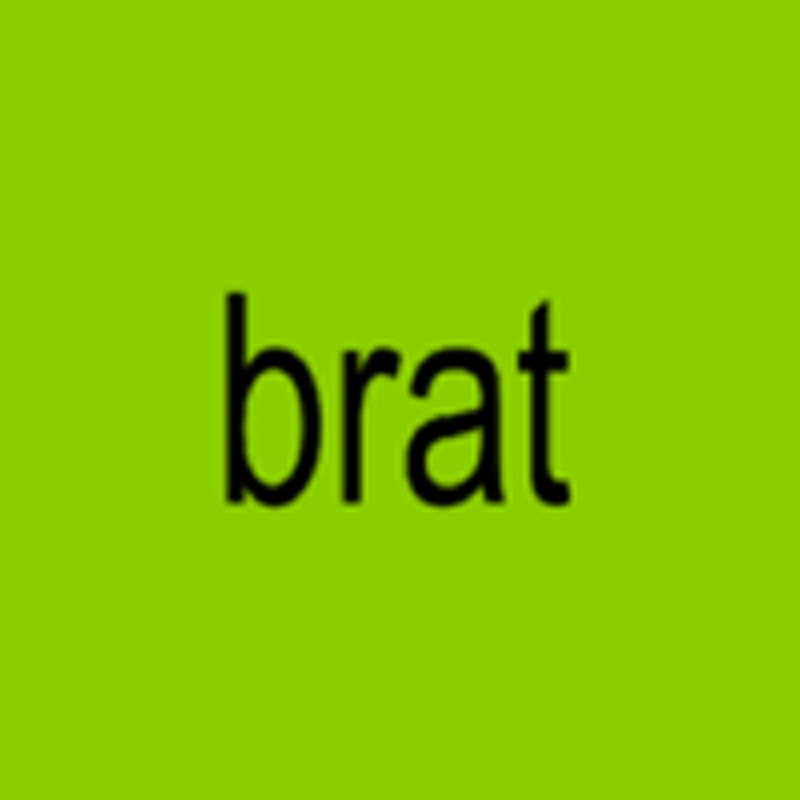
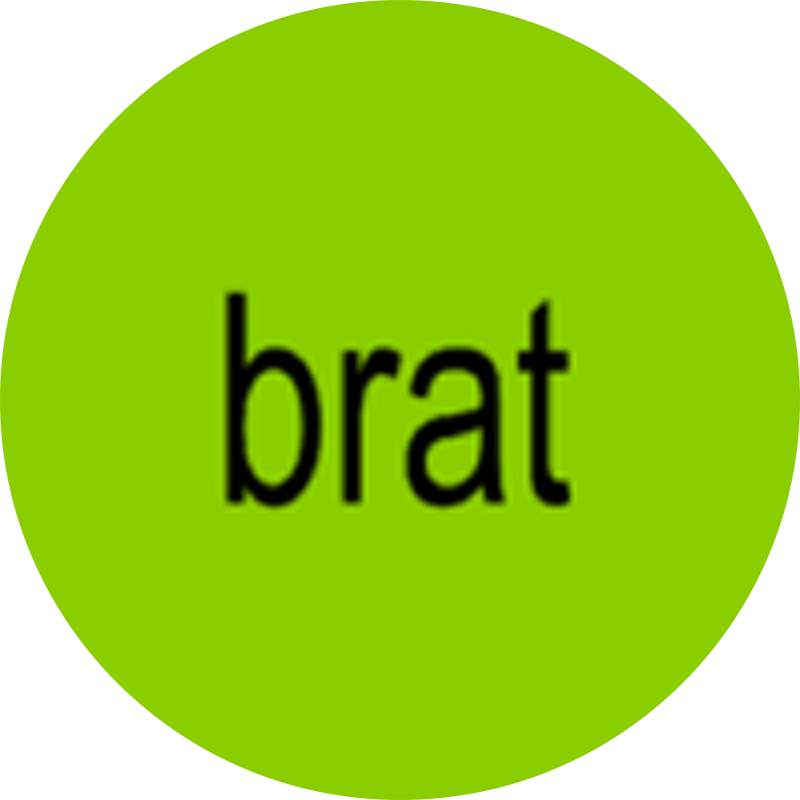
added legend and rounded images

diff --git a/components/GrammyBubbles.tsx b/components/GrammyBubbles.tsx
@@ -1,3 +1,4 @@
+/* eslint-disable @typescript-eslint/no-unused-vars */
 /* eslint-disable react-hooks/exhaustive-deps */
 
 'use client';
@@ -45,13 +46,13 @@ const BubbleChart = ({ category, title, onMouseEnter, onMouseLeave, onMouseMove,
             .data(nodes)
             .enter()
             .append("image")
-            .attr("class", "bubble")
+            .attr("class", "bubble cursor-pointer")
             .attr("href", d => d.src_img.replace("../public", ""))
-            .attr("width", d => Math.max(d.overall_average * (window.innerWidth < 768 ? 6 : 6), 100)) // Ajuste para celular
-            .attr("height", d => Math.max(d.overall_average * (window.innerWidth < 768 ? 6 : 6), 100)) // Ajuste para celular
+            .attr("width", d => Math.max(d.overall_average * (window.innerWidth < 768 ? 6 : 6), 100))
+            .attr("height", d => Math.max(d.overall_average * (window.innerWidth < 768 ? 6 : 6), 100))
             .style("opacity", 0)
             .on("mouseover", (event, d) => {
-                gsap.to(event.currentTarget, { scale: 1, opacity: 0.8, duration: 0.3 });
+                gsap.to(event.currentTarget, { scale: 1, opacity: 1, duration: 0.3 });
                 onMouseEnter(d);
             })
             .on("mouseleave", (event) => {
@@ -61,7 +62,7 @@ const BubbleChart = ({ category, title, onMouseEnter, onMouseLeave, onMouseMove,
             .on("mousemove", (event) => onMouseMove(event))
             .on("click", (event, d) => onClick(d));
 
-        gsap.to(bubbles.nodes(), { opacity: 1, scale: 1, duration: 0.5, stagger: 0.05 });
+        gsap.to(bubbles.nodes(), { opacity: 1, scale: 1, duration: 0.8, stagger: 0.05 });
 
         function ticked() {
             bubbles.attr("x", d => (d.x ?? 0) - Math.max(d.overall_average * 3, 20))
@@ -72,7 +73,69 @@ const BubbleChart = ({ category, title, onMouseEnter, onMouseLeave, onMouseMove,
     return (
         <motion.div className="relative h-full w-full" initial={{ opacity: 0 }} animate={{ opacity: 1 }} exit={{ opacity: 0 }}>
             <h3 className="text-sm font-bold font-mono p-4 text-[#e0d1e8]">{title}</h3>
-            <svg ref={svgRef} className="font-mono absolute top-0 left-0 w-full h-screen overflow-hidden"></svg>        </motion.div>
+            <svg ref={svgRef} className="font-mono absolute top-0 left-0 w-full h-screen overflow-hidden"></svg>
+        </motion.div>
+    );
+};
+
+const FloatingHint = () => {
+    const [visible, setVisible] = useState(true);
+
+    useEffect(() => {
+        const timer = setTimeout(() => {
+            setVisible(false);
+        }, 5000); // Hide after 5 seconds
+        return () => clearTimeout(timer);
+    }, []);
+
+    return (
+        <AnimatePresence>
+            {visible && (
+                <motion.div
+                    className="absolute bottom-10 left-1/2 transform -translate-x-1/2 bg-[#e0d1e8] text-[#150317] px-4 py-2 rounded-lg shadow-lg text-sm font-mono"
+                    initial={{ opacity: 0, y: 20 }}
+                    animate={{ opacity: 1, y: 0 }}
+                    exit={{ opacity: 0, y: 20 }}
+                    transition={{ duration: 0.5 }}
+                >
+                    Clique na imagem para mais detalhes
+                </motion.div>
+            )}
+        </AnimatePresence>
+    );
+};
+
+const Legend = () => {
+    return (
+        <div className="p-4 bg-[#1e0a2a] rounded-lg shadow-md m-5">
+            <h4 className="font-bold font-mono text-sm text-[#e0d1e8] mb-4">Legenda</h4>
+            <div className="space-y-3">
+                <div className="flex items-center space-x-2">
+                    <div className="w-4 h-4 bg-[#e2ff8e] rounded-full"></div>
+                    <p className="text-[12px] text-[#e0d1e8]">
+                        <strong>Média Geral:</strong> Calculada a partir de três fontes principais: Análise Preditiva, Apostas do Público e Apostas da Crítica.
+                    </p>
+                </div>
+                <div className="flex items-center space-x-2">
+                    <div className="w-4 h-4 bg-[#ffffff] rounded-full"></div>
+                    <p className="text-[12px] text-[#e0d1e8]">
+                        <strong>Análise Preditiva:</strong> Usa modelos estatísticos e tendências históricas para prever vencedores do Grammy Awards.
+                    </p>
+                </div>
+                <div className="flex items-center space-x-2">
+                    <div className="w-4 h-4 bg-[#ffaab9] rounded-full"></div>
+                    <p className="text-[12px] text-[#e0d1e8]">
+                        <strong>Apostas do Mercado:</strong> Coletadas via Kalshi. Os preços dos contratos refletem a percepção coletiva sobre os favoritos. Dados coletados em 29/01.
+                    </p>
+                </div>
+                <div className="flex items-center space-x-2">
+                    <div className="w-4 h-4 bg-[#d03200] rounded-full"></div>
+                    <p className="text-[12px] text-[#e0d1e8]">
+                        <strong>Apostas da Crítica:</strong> Baseadas na análise de Billboard, The Guardian, Vulture, AP News e Pitchfork, com pesos atribuídos por especialização, influência, profundidade e popularidade.
+                    </p>
+                </div>
+            </div>
+        </div>
     );
 };
 
@@ -85,18 +148,11 @@ const GrammyBubbles = () => {
     const [isDesktop, setIsDesktop] = useState(false);
 
     useEffect(() => {
-        // Check if the screen width is greater than 768px (desktop)
         const handleResize = () => {
             setIsDesktop(window.innerWidth > 768);
         };
-
-        // Set initial value
         handleResize();
-
-        // Add event listener for window resize
         window.addEventListener("resize", handleResize);
-
-        // Cleanup event listener
         return () => window.removeEventListener("resize", handleResize);
     }, []);
 
@@ -112,7 +168,7 @@ const GrammyBubbles = () => {
             const rect = target.getBoundingClientRect();
             setTooltipPosition({
                 x: rect.left + window.scrollX + rect.width / 2,
-                y: rect.top + window.scrollY + rect.height / 2
+                y: rect.top + window.scrollY + rect.height / 2,
             });
         }
     };
@@ -123,6 +179,7 @@ const GrammyBubbles = () => {
 
     return (
         <motion.div className="flex flex-col h-full w-full bg-[#150317]" initial={{ opacity: 0 }} animate={{ opacity: 1 }} exit={{ opacity: 0 }}>
+            {/* <FloatingHint /> */}
             <BubbleChart
                 category={data[selectedCategory]}
                 title={categories.find(cat => cat.key === selectedCategory)?.title || ""}
@@ -131,7 +188,6 @@ const GrammyBubbles = () => {
                 onMouseMove={handleMouseMove}
                 onClick={handleClick}
             />
-            {/* Only render the tooltip if it's a desktop device */}
             {isDesktop && (
                 <AnimatePresence>
                     {tooltipData && (
@@ -145,22 +201,24 @@ const GrammyBubbles = () => {
                                 borderRadius: "8px",
                                 border: "1px solid rgba(0, 0, 0, 0.1)",
                                 boxShadow: "0 4px 8px rgba(0, 0, 0, 0.1)",
-                                transform: "translate(-50%, -50%)", 
+                                transform: "translate(-50%, -50%)",
                             }}
                             initial={{ opacity: 0, scale: 0.8 }}
                             animate={{ opacity: 1, scale: 1 }}
                             exit={{ opacity: 0, scale: 0.8 }}
-                            transition={{ duration: 0.5 }}
+                            transition={{ duration: 0.2 }}
                         >
                             <div className="font-bold font-mono text-lg">{tooltipData.name}</div>
                             <div className="font-bold font-mono text-[12px]">Média Geral: {tooltipData.overall_average} %</div>
                             <div className="font-mono text-[12px]">Predição: {tooltipData.prediction} %</div>
                             <div className="font-mono text-[12px]">Mercado: {tooltipData.market} %</div>
                             <div className="font-mono text-[12px]">Críticos: {tooltipData.critics} %</div>
+                            <div className="font-mono text-[10px] text-gray-600 mt-2 max-w-52">Clique para mais detalhes</div>
                         </motion.div>
                     )}
                 </AnimatePresence>
             )}
+
             <div className="flex flex-col min-h-screen">
                 <div className="flex flex-wrap space-x-4 p-4 items-center justify-center mt-auto">
                     {categories.map(cat => (
@@ -175,7 +233,7 @@ const GrammyBubbles = () => {
                     ))}
                 </div>
             </div>
-
+            <Legend />
             <Drawer open={isDrawerOpen} onOpenChange={setIsDrawerOpen}>
                 <DrawerContent className="text-[#efb9f0]">
                     <DrawerHeader>
@@ -187,10 +245,10 @@ const GrammyBubbles = () => {
                         <DrawerDescription>{selectedData?.comment_pitchfork}</DrawerDescription>
                     </DrawerHeader>
                     <div className="p-4 ">
-                        <div className="font-bold font-mono text-[12px]">Média Geral: {selectedData?.overall_average} %</div>
+                        <div className="font-bold font-mono text-[12px] text-[#e2ff8e]">Média Geral: {selectedData?.overall_average} %</div>
                         <div className="font-mono text-[12px]">Predição: {selectedData?.prediction} %</div>
-                        <div className="font-mono text-[12px]">Mercado: {selectedData?.market} %</div>
-                        <div className="font-mono text-[12px]">Críticos: {selectedData?.critics} %</div>
+                        <div className="font-mono text-[12px] text-[#ffaab9]">Mercado: {selectedData?.market} %</div>
+                        <div className="font-mono text-[12px] text-[#d03200]">Críticos: {selectedData?.critics} %</div>
                     </div>
                 </DrawerContent>
             </Drawer>

diff --git a/data/data.ts b/data/data.ts
@@ -42,7 +42,7 @@ export const data: { [key: string]: PredictionNode[] } = {
             market: 26,
             critics: 70,
             overall_average: 41.8,
-            src_img: "../public/Cowboy Carter (Beyoncé).jpeg",
+            src_img: "../public/Cowboy Carter (Beyoncé).png",
             spotify: "https://open.spotify.com/intl-pt/album/6BzxX6zkDsYKFJ04ziU5xQ?si=o7koC9UrTIuudai0G8JCmA",
             comment_billboard: "",
             comment_apnews: "Cowboy Carter de Beyoncé se destaca, apesar dos desafios nas estruturas tradicionais da música country.						",
@@ -56,7 +56,7 @@ export const data: { [key: string]: PredictionNode[] } = {
             market: 46,
             critics: 0,
             overall_average: 23.7,
-            src_img: "../public/Billie.jpeg",
+            src_img: "../public/Billie.png",
             spotify: "https://open.spotify.com/intl-pt/album/7aJuG4TFXa2hmE4z1yxc3n?si=Q7VI7XytSL2jjrDy491wmw",
             comment_billboard: "",
             comment_apnews: "",
@@ -70,7 +70,7 @@ export const data: { [key: string]: PredictionNode[] } = {
             market: 8,
             critics: 18,
             overall_average: 11.2,
-            src_img: "../public/The Tortured Poets Department (Taylor Swift).jpeg",
+            src_img: "../public/The Tortured Poets Department (Taylor Swift).png",
             spotify: "https://open.spotify.com/intl-pt/album/1Mo4aZ8pdj6L1jx8zSwJnt?si=fcb1e49c93af4579",
             comment_billboard: "",
             comment_apnews: "",
@@ -86,7 +86,7 @@ export const data: { [key: string]: PredictionNode[] } = {
             market: 54,
             critics: 58,
             overall_average: 59.1,
-            src_img: "../public/Billie.jpeg",
+            src_img: "../public/Billie.png",
             spotify: "https://open.spotify.com/intl-pt/track/6dOtVTDdiauQNBQEDOtlAB?si=6eb24f7352da43f8",
             comment_billboard: "Birds of a feather, de Billie Eilish e FINNEAS, é apontada como favorita, no entanto, Die With a Smile (With Bruno Mars) também é mencionada como possível vencedora.",
             comment_apnews: "",
@@ -100,7 +100,7 @@ export const data: { [key: string]: PredictionNode[] } = {
             market: 21,
             critics: 30,
             overall_average: 19.1,
-            src_img: "../public/Kdot.jpeg",
+            src_img: "../public/Kdot.png",
             spotify: "https://open.spotify.com/intl-pt/track/6AI3ezQ4o3HUoP6Dhudph3?si=aeb2e1309b89460e",
             comment_billboard: "",
             comment_apnews: "A vitória de Kendrick Lamar com “Not Like Us” parece inevitável. Como único compositor da faixa, este pode ser o momento perfeito para sua primeira conquista na categoria.",
@@ -114,7 +114,7 @@ export const data: { [key: string]: PredictionNode[] } = {
             market: 6,
             critics: 12,
             overall_average: 10.7,
-            src_img: "../public/Chappell Roan.jpeg",
+            src_img: "../public/Chappell Roan.png",
             spotify: "https://open.spotify.com/intl-pt/track/0WbMK4wrZ1wFSty9F7FCgu?si=31045171a1c14c34",
             comment_billboard: "",
             comment_apnews: "",
@@ -128,7 +128,7 @@ export const data: { [key: string]: PredictionNode[] } = {
             market: 10,
             critics: 0,
             overall_average: 10.9,
-            src_img: "../public/lady-gaga-e-bruno-2.webp",
+            src_img: "../public/lady-gaga-e-bruno-2.png",
             spotify: "https://open.spotify.com/intl-pt/track/2plbrEY59IikOBgBGLjaoe?si=440f92fca2054d78",
             comment_billboard: "",
             comment_apnews: "",
@@ -142,7 +142,7 @@ export const data: { [key: string]: PredictionNode[] } = {
             market: 3,
             critics: 0,
             overall_average: 5.1,
-            src_img: "../public/Cowboy Carter (Beyoncé).jpeg",
+            src_img: "../public/Cowboy Carter (Beyoncé).png",
             spotify: "https://open.spotify.com/intl-pt/track/0Z7nGFVCLfixWctgePsRk9?si=44f87fea29a84bbd",
             comment_billboard: "",
             comment_apnews: "",
@@ -158,7 +158,7 @@ export const data: { [key: string]: PredictionNode[] } = {
             market: 65,
             critics: 0,
             overall_average: 73.1,
-            src_img: "../public/Sabrina.jpeg",
+            src_img: "../public/Sabrina.png",
             spotify: "https://open.spotify.com/intl-pt/track/2qSkIjg1o9h3YT9RAgYN75?si=a07ddd6783774268",
             comment_billboard: "",
             comment_apnews: "",
@@ -172,7 +172,7 @@ export const data: { [key: string]: PredictionNode[] } = {
             market: 9,
             critics: 0,
             overall_average: 14.9,
-            src_img: "../public/Billie.jpeg",
+            src_img: "../public/Billie.png",
             spotify: "https://open.spotify.com/intl-pt/track/6AI3ezQ4o3HUoP6Dhudph3?si=aeb2e1309b89460e",
             comment_billboard: "",
             comment_apnews: "",
@@ -186,7 +186,7 @@ export const data: { [key: string]: PredictionNode[] } = {
             market: 13,
             critics: 60,
             overall_average: 14.8,
-            src_img: "../public/Kdot.jpeg",
+            src_img: "../public/Kdot.png",
             spotify: "https://open.spotify.com/intl-pt/track/6AI3ezQ4o3HUoP6Dhudph3?si=aeb2e1309b89460e",
             comment_billboard: "A Billboard sugere que Not Like Us, de Kendrick Lamar, deve levar o prêmio, embora Now and Then, dos Beatles, também seja uma forte candidata.",
             comment_apnews: "Not Like Us de Kendrick Lamar aparece como favorita, destacando a influência significativa desta última faixa.",
@@ -200,7 +200,7 @@ export const data: { [key: string]: PredictionNode[] } = {
             market: 8,
             critics: 18,
             overall_average: 8.5,
-            src_img: "../public/Beatles.jpeg",
+            src_img: "../public/Beatles.png",
             spotify: "https://open.spotify.com/intl-pt/track/4vziJcnB2Qyi9o4nIRUeN7?si=c6bebbb111794feb",
             comment_billboard: "",
             comment_apnews: "",
@@ -214,7 +214,7 @@ export const data: { [key: string]: PredictionNode[] } = {
             market: 2,
             critics: 22,
             overall_average: 1,
-            src_img: "../public/Cowboy Carter (Beyoncé).jpeg",
+            src_img: "../public/Cowboy Carter (Beyoncé).png",
             spotify: "https://open.spotify.com/intl-pt/track/0Z7nGFVCLfixWctgePsRk9?si=44f87fea29a84bbd",
             comment_billboard: "",
             comment_apnews: "",
@@ -230,7 +230,7 @@ export const data: { [key: string]: PredictionNode[] } = {
             market: 62,
             critics: 62,
             overall_average: 69.5,
-            src_img: "../public/Chappell Roan.jpeg",
+            src_img: "../public/Chappell Roan.png",
             spotify: "https://open.spotify.com/intl-pt/artist/7GlBOeep6PqTfFi59PTUUN?si=dd458a4d355847b8",
             comment_billboard: "",
             comment_apnews: "",
@@ -244,7 +244,7 @@ export const data: { [key: string]: PredictionNode[] } = {
             market: 30,
             critics: 8,
             overall_average: 16.6,
-            src_img: "../public/Sabrina.jpeg",
+            src_img: "../public/Sabrina.png",
             spotify: "https://open.spotify.com/intl-pt/artist/74KM79TiuVKeVCqs8QtB0B?si=79b4327622a94dac",
             comment_billboard: "",
             comment_apnews: "Sabrina Carpenter é apontada como favorita, apesar de já ter uma carreira estabelecida.",
@@ -258,7 +258,7 @@ export const data: { [key: string]: PredictionNode[] } = {
             market: 4,
             critics: 0,
             overall_average: 3.7,
-            src_img: "../public/Shaboozey.jpeg",
+            src_img: "../public/Shaboozey.png",
             spotify: "https://open.spotify.com/intl-pt/artist/3y2cIKLjiOlp1Np37WiUdH?si=f8515da541b64f57",
             comment_billboard: "",
             comment_apnews: "",
@@ -272,7 +272,7 @@ export const data: { [key: string]: PredictionNode[] } = {
             market: 4,
             critics: 12,
             overall_average: 5.3,
-            src_img: "../public/Doechii.jpeg",
+            src_img: "../public/Doechii.png",
             spotify: "https://open.spotify.com/intl-pt/artist/4E2rKHVDssGJm2SCDOMMJB?si=2a92151e555f41ed",
             comment_billboard: "",
             comment_apnews: "",

diff --git a/components/Research.tsx b/components/Research.tsx
@@ -62,7 +62,9 @@ const GrammyResearch = () => {
         <motion.div className="h-full p-6" initial={{ opacity: 0 }} animate={{ opacity: 1 }} exit={{ opacity: 0 }}>
             <ResearchSection
                 title="Quais são as previsões para o Grammy Awards 2025?"
-                content="A 67ª edição do Grammy Awards será no domingo, 2 de fevereiro, e nós fomos atrás das apostas para as quatro categorias mais cobiçadas da noite – ou, para os íntimos, o Big Four: Gravação do Ano, Álbum do Ano, Canção do Ano e Artista Revelação. Para esta análise, combinamos três frentes de previsão: os dados da Action Network, conhecida por suas análises detalhadas; a Kalshi, uma bolsa de valores que reflete a percepção do mercado por meio da negociação de contratos baseados em eventos reais; e as projeções de veículos influentes como Billboard, The Guardian, Vulture, AP News e Pitchfork. Nos Estados Unidos, apostar em premiações como o Grammy é algo comum nas famosas BETs, onde tudo gira em torno das probabilidades (odds). Os apostadores podem jogar no seguro e escolher os favoritos ou arriscar nos outsiders – e quanto maior o risco, maior o prêmio."
+                content="A 67ª edição do Grammy Awards será no domingo, 2 de fevereiro, e nós fomos atrás das apostas para as quatro categorias mais cobiçadas da noite – ou, para os íntimos, o Big Four: Gravação do Ano, Álbum do Ano, Canção do Ano e Artista Revelação. 
+                
+                Para esta análise, combinamos três frentes de previsão: os dados da Action Network, conhecida por suas análises detalhadas; a Kalshi, uma bolsa de valores que reflete a percepção do mercado por meio da negociação de contratos baseados em eventos reais; e as projeções de veículos influentes como Billboard, The Guardian, Vulture, AP News e Pitchfork. Nos Estados Unidos, apostar em premiações como o Grammy é algo comum nas famosas BETs, onde tudo gira em torno das probabilidades (odds). Os apostadores podem jogar no seguro e escolher os favoritos ou arriscar nos outsiders – e quanto maior o risco, maior o prêmio."
             />
         </motion.div>
     );
